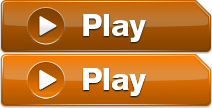
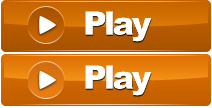
Oops! was applying to wrong thing

diff --git a/js/people.js b/js/people.js
@@ -57,12 +57,12 @@ ANORRL.People = {
 			$userbio.html("<b>No blurb set</b>");
 		} else {
 			$userbio.html(data['blurb']);
-			$userbio.find("a").attr("style","width: 180px;display: inline-block;text-overflow: ellipsis;overflow: hidden;");
 		}
 		
 		var $userstatus = $("<td></td>");
 		$userstatus.css("text-align", "center");
 		$userstatus.html(data['online'] ? data['status'] : "Offline");
+		$userstatus.find("a").attr("style","width: 180px;display: inline-block;text-overflow: ellipsis;overflow: hidden;");
 
 		$template.append($userprofile);
 		$template.append($username);

diff --git a/vandals.php b/vandals.php
@@ -16,7 +16,7 @@
 		<link rel="stylesheet" href="/css/new/people.css">
 		<script src="/js/core/jquery.js"></script>
 		<script src="/js/main.js?t=1771413807"></script>
-		<script src="/js/people.js?t=1771413807"></script>
+		<script src="/js/people.js?t=1771933357"></script>
 	</head>
 	<body>
 		<div id="Container">